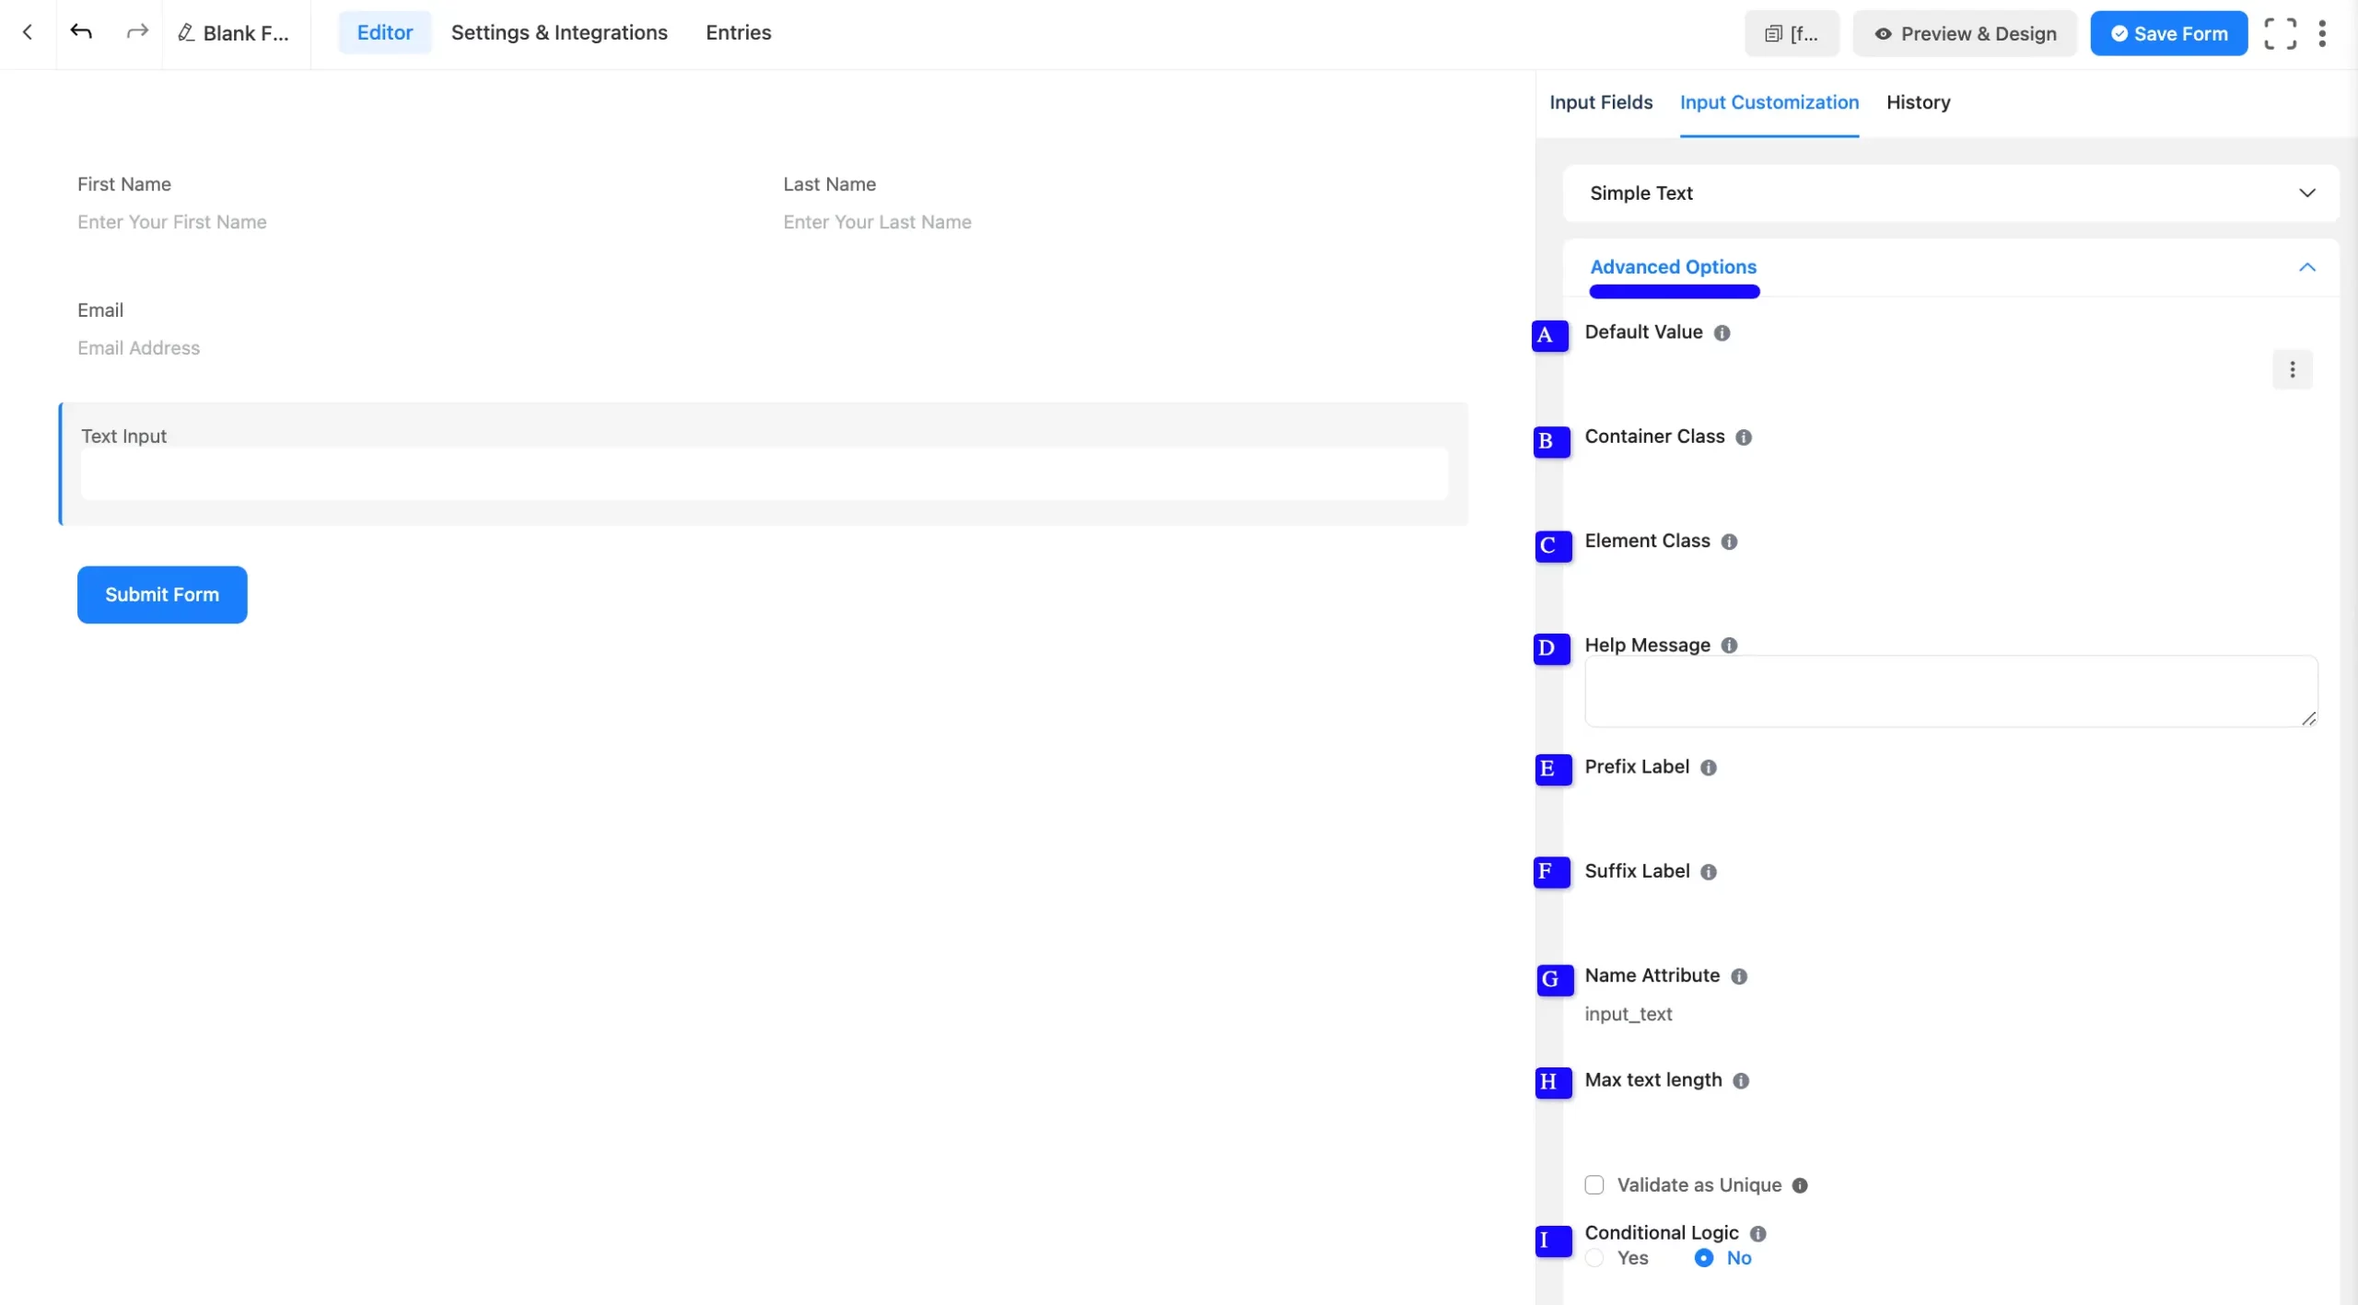
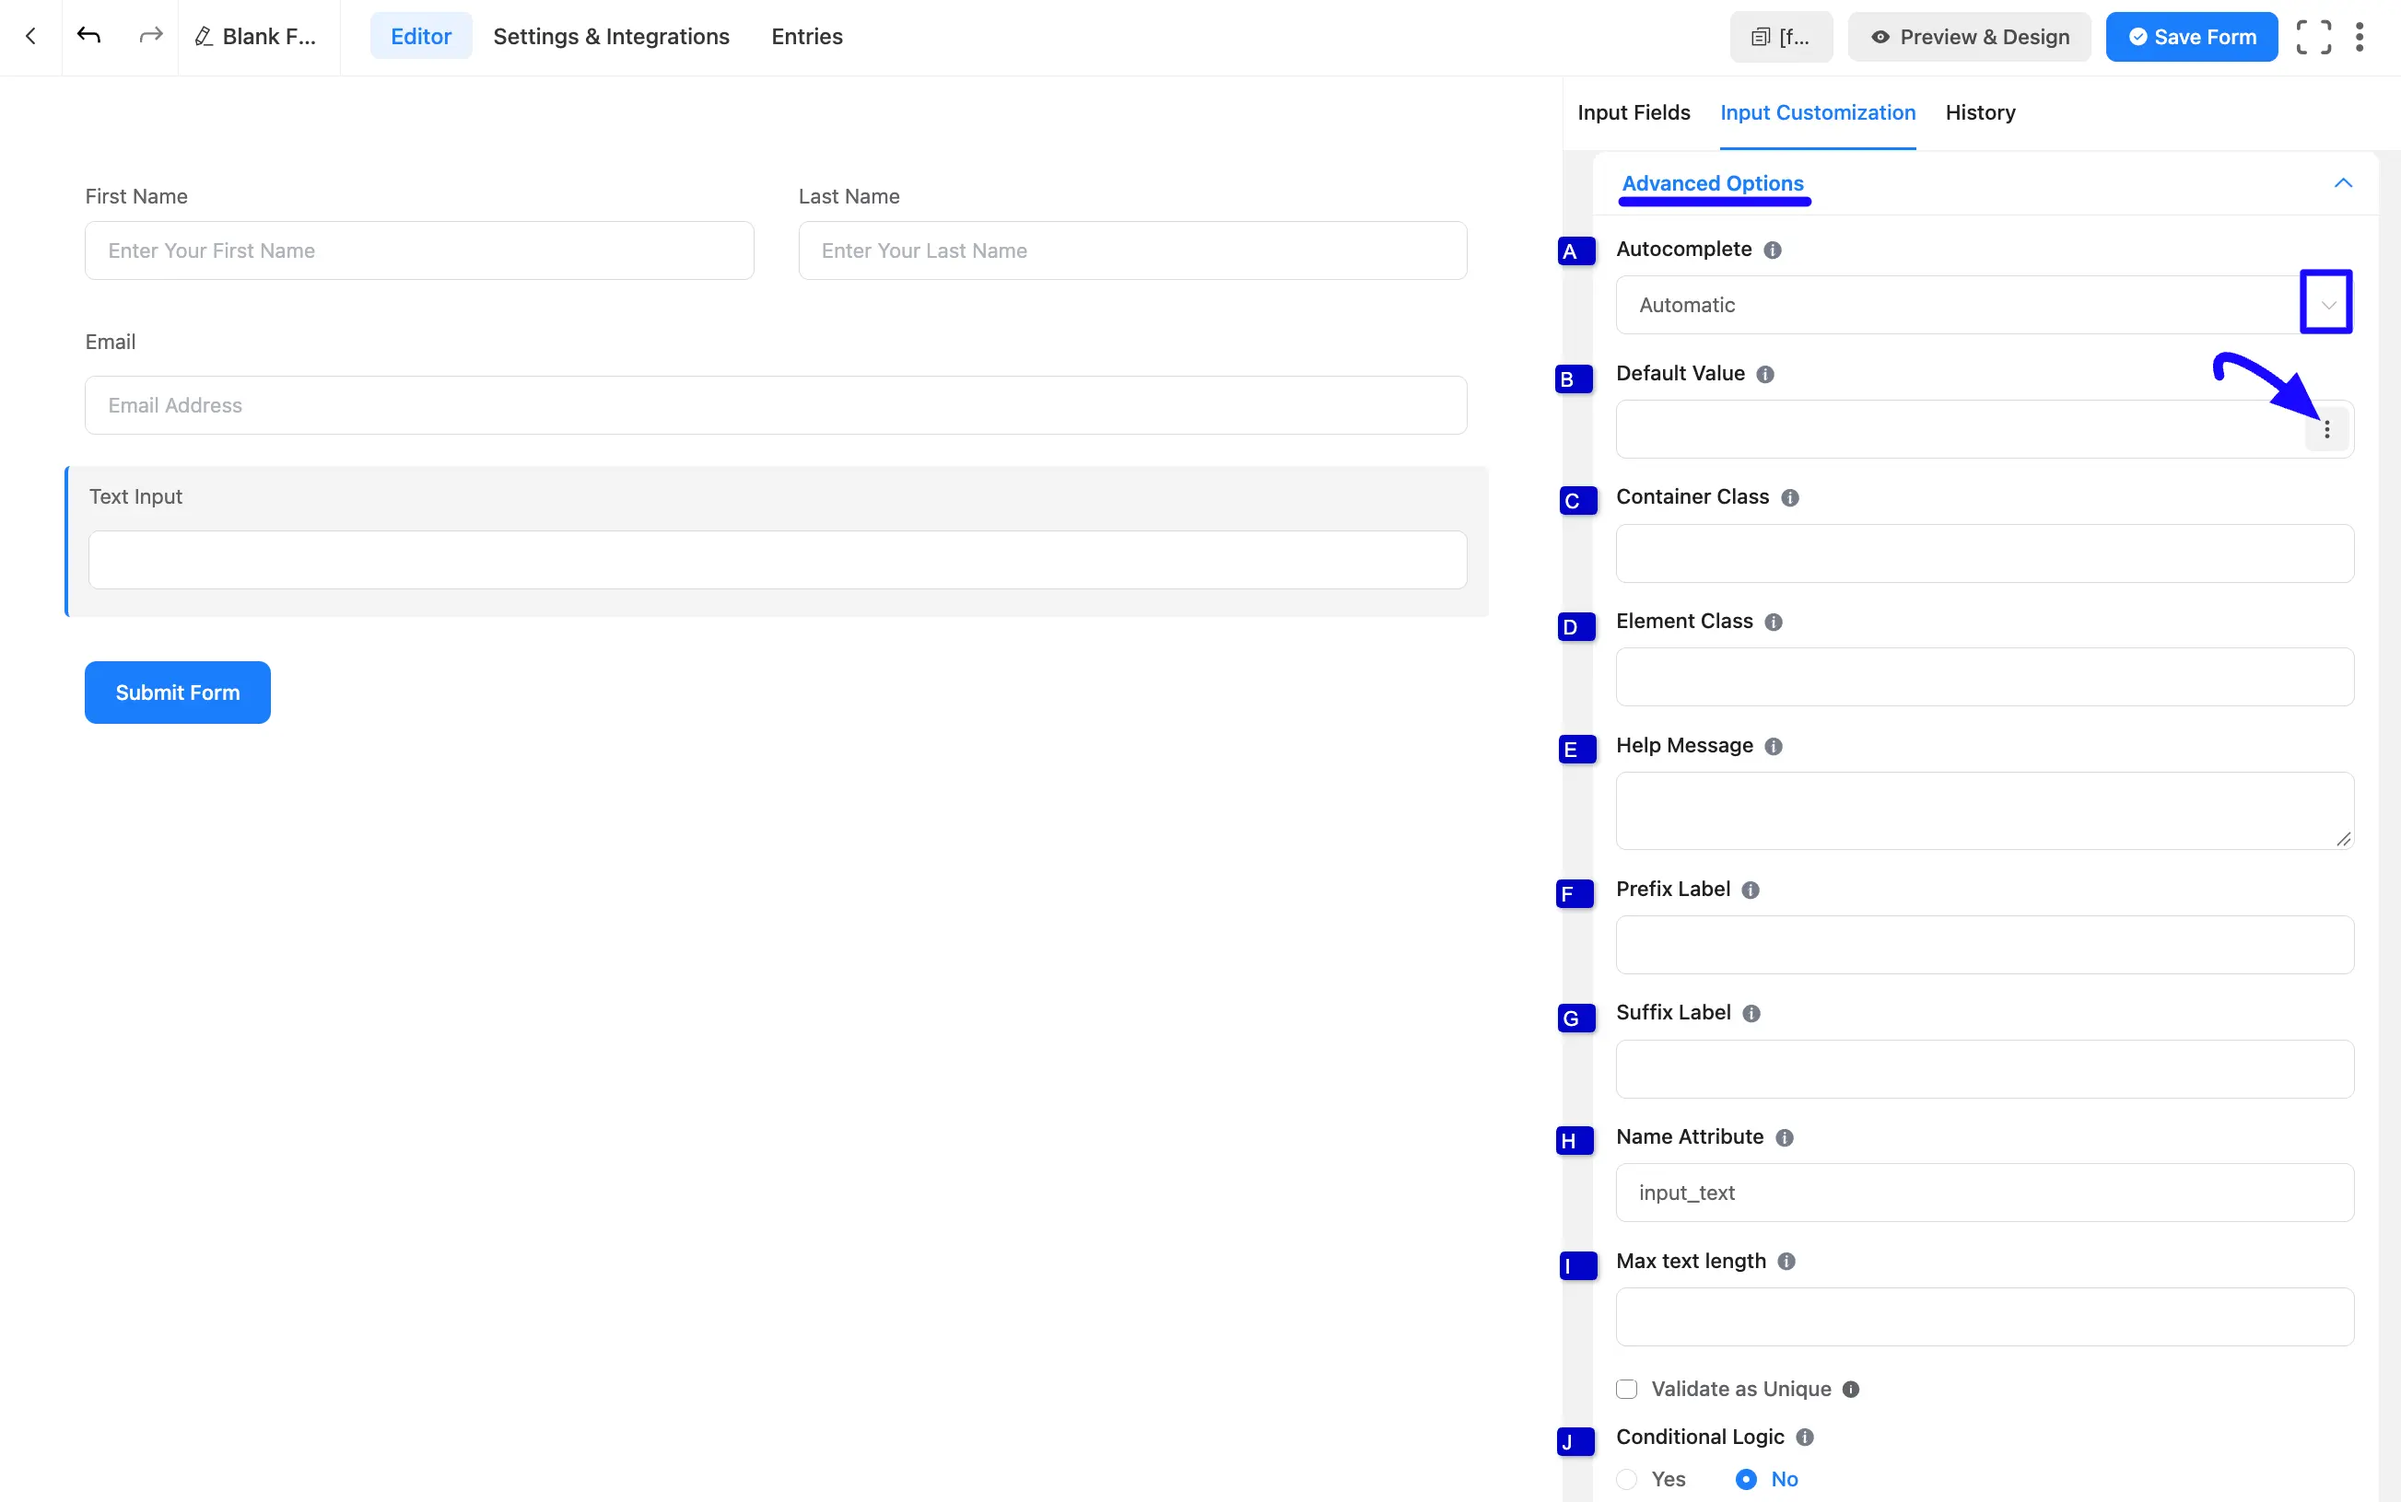
adding simple text doc update and image add

diff --git a/docs/form-fields/general-fields/adding-a-simple-text-input-field.md b/docs/form-fields/general-fields/adding-a-simple-text-input-field.md
@@ -52,27 +52,27 @@ You will find various settings options for customizing the field. Located in the
 
 Advanced settings allow further customization to meet specific use cases.
 
-**A. Default Value:** Using our shortcodes, you can manually set any fixed value in your field and pre-fill your input field dynamically. To get a better understanding of Dynamic Default Value, read this [article.](/dynamic-default-value)
+**A. Autocomplete:** Choose a value that tells the browser what the field collects, so it can offer saved details. Options are **Automatic**, **off**, **None**, or a specific value. To learn more, read [Autocomplete for Form Fields](/autocomplete-for-form-fields).
 
-**B. Container Class:** Use this option to add your custom CSS classes to the field's wrapper.
+**B. Default Value:** Using our shortcodes, you can manually set any fixed value in your field and pre-fill your input field dynamically. To get a better understanding of Dynamic Default Value, read this [article.](/dynamic-default-value)
 
-**C. Element Class:** Add custom CSS classes to the input field.
+**C. Container Class:** Use this option to add your custom CSS classes to the field's wrapper.
 
-**D. Help Message:** This option allows you to guide your user thoroughly. Add your text here, which will be shown as a help message to the user.
+**D. Element Class:** Add custom CSS classes to the input field.
 
-**E. Prefix Label:** You can use this field to provide a **Prefix Label** in your input field. It will show in the input field as a prefix label.
+**E. Help Message:** This option allows you to guide your user thoroughly. Add your text here, which will be shown as a help message to the user.
 
-**F. Suffix Label:** You can use this field to provide a Suffix Label in your input field. It will show in the input field as a suffix label.
+**F. Prefix Label:** You can use this field to provide a **Prefix Label** in your input field. It will show in the input field as a prefix label.
 
-**G. Name Attribute:** The input field's name attribute is the HTML equivalent of the same name. You don't need to modify this.
+**G. Suffix Label:** You can use this field to provide a Suffix Label in your input field. It will show in the input field as a suffix label.
 
-**H. Conditional Logic:** This option allows you to create specific rules to dynamically hide/show the input field to function conditionally based on your submission values according to your set of conditional logics. To learn more, read [Set up Forms with Conditional Logic in Fluent Forms](/set-up-forms-with-conditional-logic). 
+**H. Name Attribute:** The input field's name attribute is the HTML equivalent of the same name. You don't need to modify this.
 
 **I. Max Text Length:** You can set the maximum number of characters that the input field can accept. This is ideal for limiting responses like postal codes or short codes.
 
 **Validate as Unique:** Ensure the input value is unique among all submissions. If not unique, users will receive an error message. Learn more in [Unique Field Validation](/unique-field-validation). 
 
-**J. Conditional Logic:** This option allows you to create specific rules to dynamically hide/show the input field to function conditionally based on your submission values according to your set of conditional logics. 
+**J. Conditional Logic:** This option allows you to create specific rules to dynamically hide/show the input field to function conditionally based on your submission values according to your set of conditional logics. To learn more, read [Set up Forms with Conditional Logic in Fluent Forms](/set-up-forms-with-conditional-logic).
 
 ![Advanced Options](/images/form-fields/general-fields/adding-a-simple-text-input-field/Advanced-options-05-8-scaled.webp)
 

diff --git a/docs/form-fields/form-fields-overview.md b/docs/form-fields/form-fields-overview.md
@@ -28,6 +28,7 @@ The everyday essentials. These cover the most common inputs you'll reach for on 
 - [File Upload](/file-upload-input-field) — let users attach files.
 - [Image Upload](/image-upload-input-field) — collect image uploads.
 - [Custom HTML](/custom-html-field) — add your own markup inside a form.
+- [Autocomplete](/autocomplete-for-form-fields) — let browsers fill in saved details and meet WCAG 1.3.5.
 
 ## Advanced Fields
 
